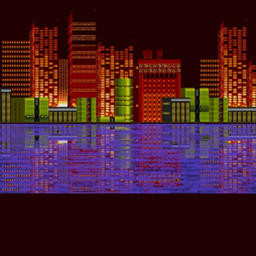
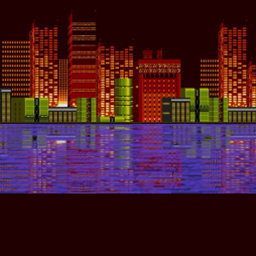
Sub background animation added.

diff --git a/source/main.cpp b/source/main.cpp
@@ -14,6 +14,8 @@
 #include "bigImages.h"
 #include "bgMain.h"
 #include "bgSub.h"
+#include "bgSub1.h"
+#include "bgSub2.h"
 
 #include "soundbank.h"
 #include "soundbank_bin.h"
@@ -38,6 +40,13 @@ std::pair<int, int> blockOffset(18, 10);
 int maxColumns = 10;
 int maxRows = 5;
 
+std::vector<const unsigned int*> bgSequence;
+std::vector<u16*> bgPalettesSequence;
+uint8_t displayBg = 0;
+uint8_t displayBgFrameCounter = 0;
+int bgMain;
+int bgSub;
+
 bool playing = true;
 bool gameOver = false;
 
@@ -60,6 +69,7 @@ int main() {
 void Init(){
 	swiWaitForVBlank();
 	srand(time(NULL));
+	displayBg = 0;
 	
 	videoSetMode(MODE_5_2D);
 	videoSetModeSub(MODE_5_2D);
@@ -84,16 +94,26 @@ void Init(){
 	setBackdropColor(RGB15(15,15,31));
 	setBackdropColorSub(RGB15(15,15,31));
 
-	int bgMain = bgInit(3, BgType_Bmp8, BgSize_B8_256x256, 0, 0);
+	bgMain = bgInit(3, BgType_Bmp8, BgSize_B8_256x256, 0, 0);
 	dmaCopy(bgMainBitmap, bgGetGfxPtr(bgMain), sizeof(bgMainBitmap));
 
-	int bgSub = bgInitSub(3, BgType_Bmp8, BgSize_B8_256x256, 0, 0);
-	dmaCopy(bgSubBitmap, bgGetGfxPtr(bgSub), sizeof(bgSubBitmap)*2);
+	bgSub = bgInitSub(3, BgType_Bmp8, BgSize_B8_256x256, 0, 0);
+	dmaCopy(bgSubBitmap, bgGetGfxPtr(bgSub), sizeof(bgSubBitmap));
+
+	bgSequence.push_back(bgSubBitmap);
+	bgSequence.push_back(bgSub1Bitmap);
+	bgSequence.push_back(bgSubBitmap);
+	bgSequence.push_back(bgSub2Bitmap);
 
 
 	//load the palettes (background)
 	dmaCopy((u16*)bgMainPal, BG_PALETTE, sizeof(bgMainPal));
 	dmaCopy((u16*)bgSubPal, BG_PALETTE_SUB, sizeof(bgSubPal));
+	bgPalettesSequence.push_back((u16*)bgSubPal);
+	bgPalettesSequence.push_back((u16*)bgSub1Pal);
+	bgPalettesSequence.push_back((u16*)bgSubPal);
+	bgPalettesSequence.push_back((u16*)bgSub2Pal);
+
 
 	
 	//load the palettes (sprites)
@@ -166,8 +186,27 @@ void Update(){
 
 	//load the palettes (background)
 	dmaCopy((u16*)bgMainPal, BG_PALETTE, sizeof(bgMainPal));
-	dmaCopy((u16*)bgSubPal, BG_PALETTE_SUB, sizeof(bgSubPal));
-	
+	//animated background (in sub screen)
+	if(displayBg == 0 || displayBg == 2){
+		dmaCopy(bgSubBitmap, bgGetGfxPtr(bgSub), sizeof(bgSubBitmap));
+		dmaCopy((u16*)bgSubPal, BG_PALETTE_SUB, sizeof(bgSubPal));
+	}
+	else if(displayBg == 1){
+		dmaCopy(bgSub1Bitmap, bgGetGfxPtr(bgSub), sizeof(bgSub1Bitmap));
+		dmaCopy((u16*)bgSub1Pal, BG_PALETTE_SUB, sizeof(bgSub1Pal));
+	}
+	else if(displayBg == 3){
+		dmaCopy(bgSub2Bitmap, bgGetGfxPtr(bgSub), sizeof(bgSub2Bitmap));
+		dmaCopy((u16*)bgSub2Pal, BG_PALETTE_SUB, sizeof(bgSub2Pal));
+	}
+
+	//Change background every an arbitrary number of frames
+	if(displayBgFrameCounter > 20){
+		displayBg++;
+		displayBg %= 4;
+		displayBgFrameCounter = 0;
+	}
+	displayBgFrameCounter++;
 
 	if(!gameOver){
 		//Draw the blocks
